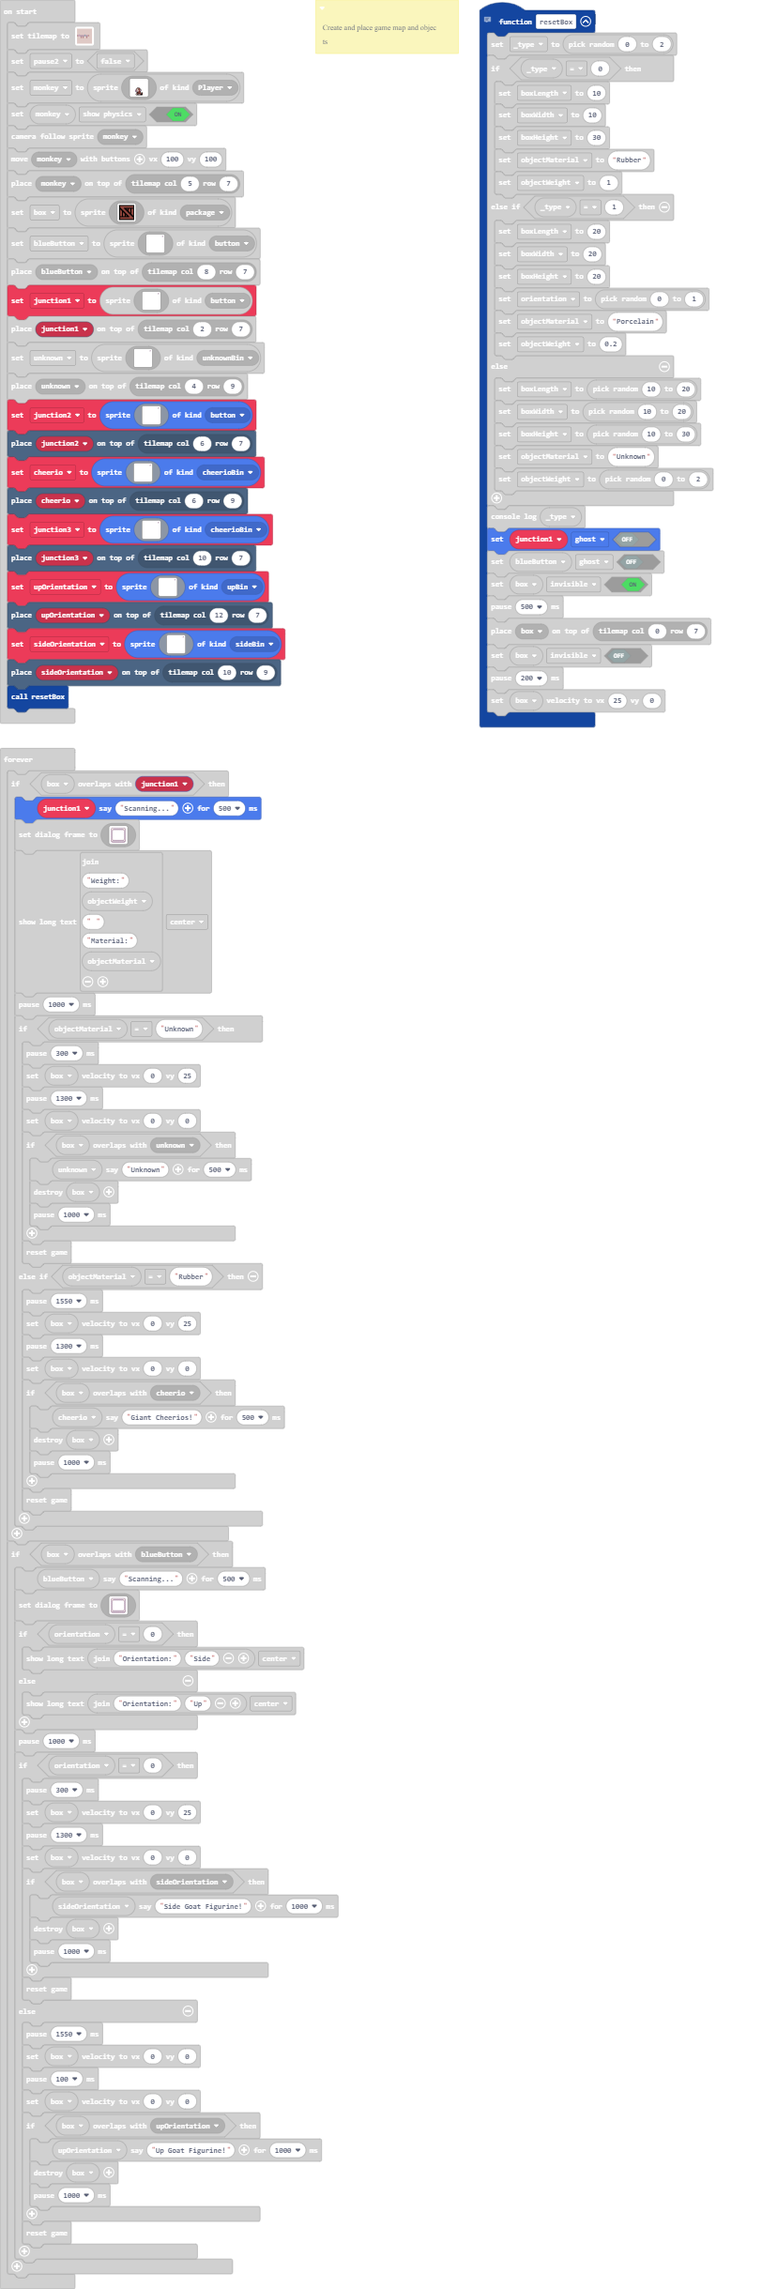
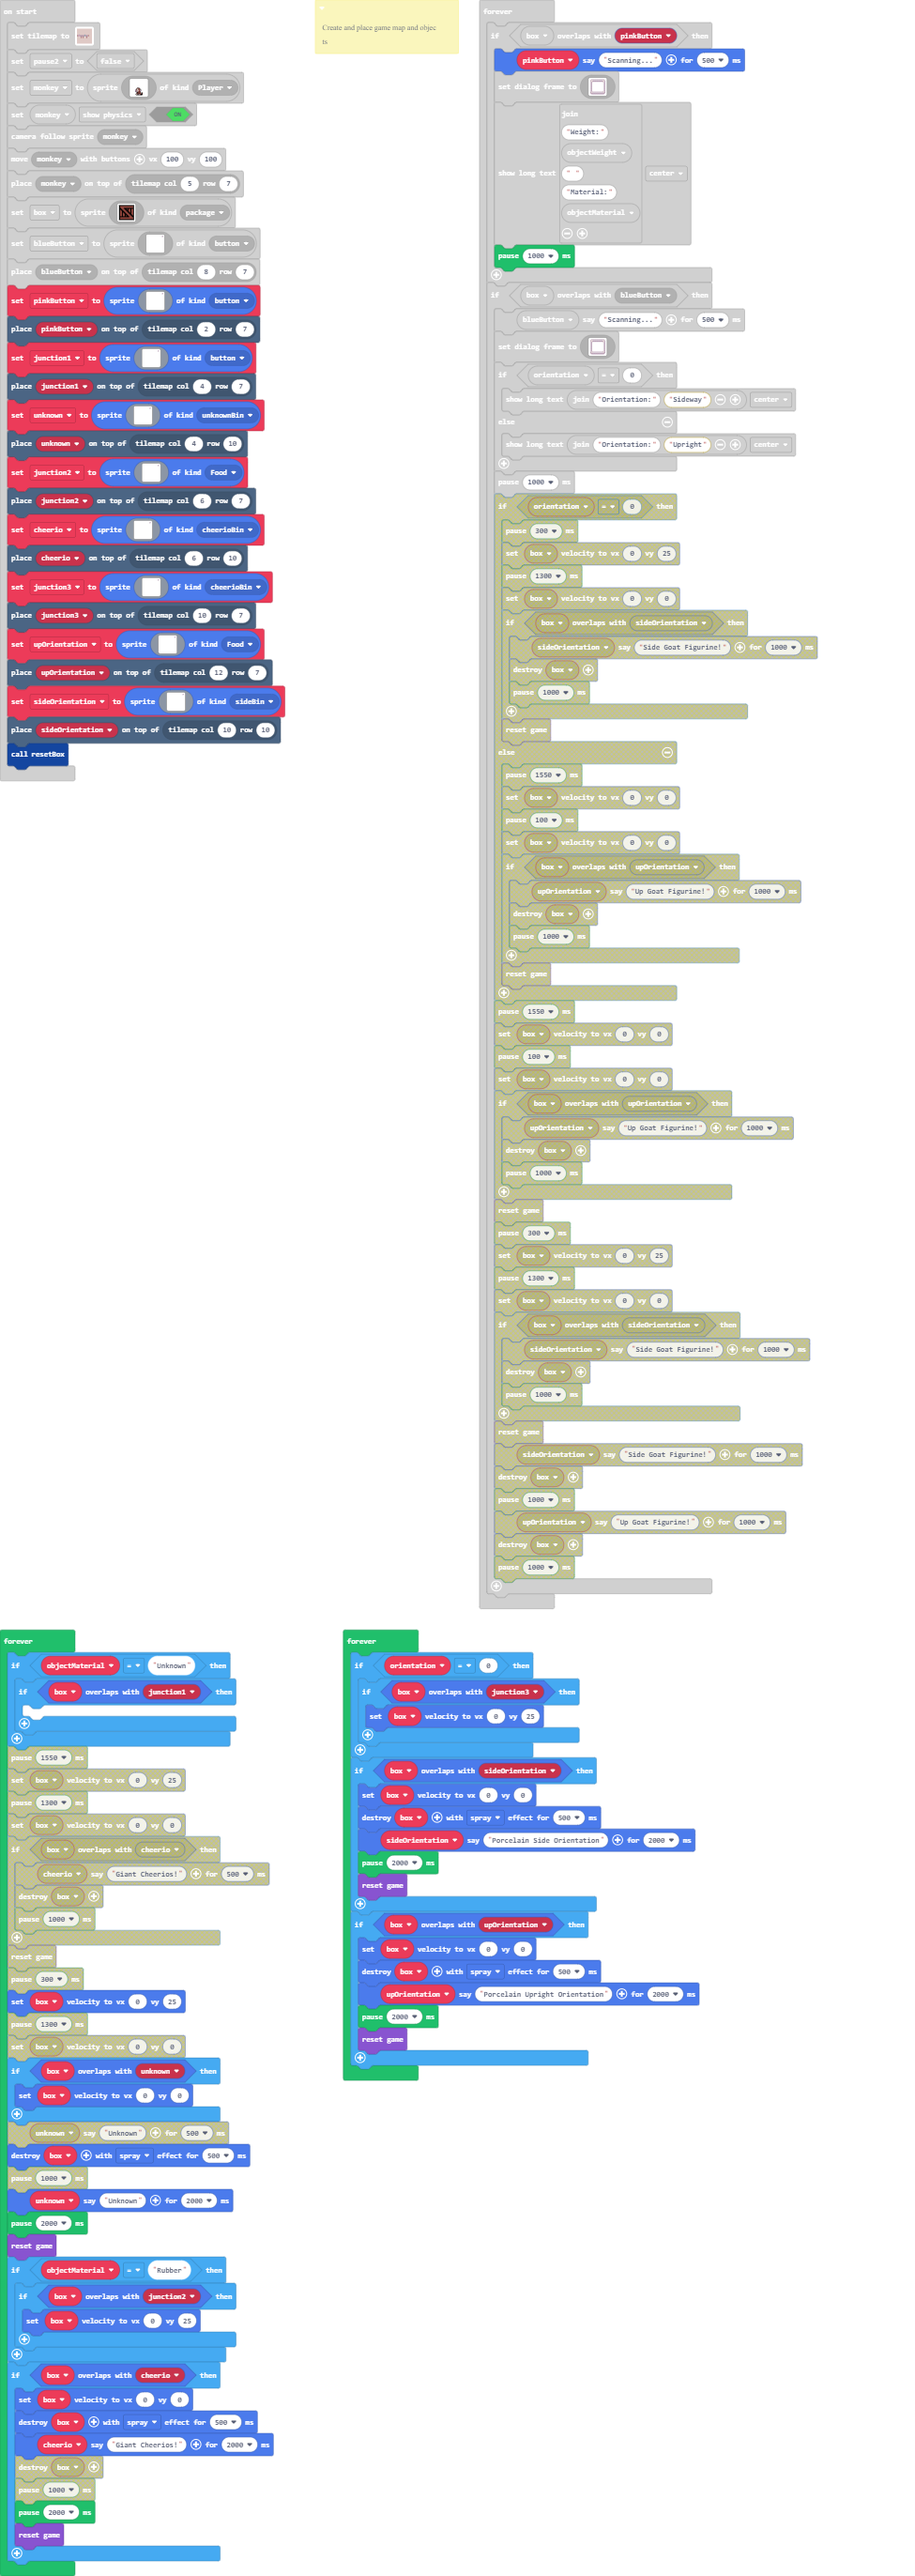
Update main.blocks, main.ts

diff --git a/main.ts b/main.ts
@@ -147,6 +147,25 @@ blueButton = sprites.create(img`
     . . . . . . . . . . . . . . . . 
     `, SpriteKind.button)
 tiles.placeOnTile(blueButton, tiles.getTileLocation(8, 7))
+let pinkButton = sprites.create(img`
+    . . . . . . . . . . . . . . . b 
+    . . . . . . . . . . . . . . . . 
+    . . . . . . . . . . . . . . . . 
+    . . . . . . . . . . . . . . . . 
+    . . . . . . . . . . . . . . . . 
+    . . . . . . . . . . . . . . . . 
+    . . . . . . . . . . . . . . . . 
+    . . . . . . . . . . . . . . . . 
+    . . . . . . . . . . . . . . . . 
+    . . . . . . . . . . . . . . . . 
+    . . . . . . . . . . . . . . . . 
+    . . . . . . . . . . . . . . . . 
+    . . . . . . . . . . . . . . . . 
+    . . . . . . . . . . . . . . . . 
+    . . . . . . . . . . . . . . . . 
+    . . . . . . . . . . . . . . . . 
+    `, SpriteKind.button)
+tiles.placeOnTile(pinkButton, tiles.getTileLocation(2, 7))
 junction1 = sprites.create(img`
     . . . . . . . . . . . . . . . b 
     . . . . . . . . . . . . . . . . 
@@ -165,7 +184,7 @@ junction1 = sprites.create(img`
     . . . . . . . . . . . . . . . . 
     . . . . . . . . . . . . . . . . 
     `, SpriteKind.button)
-tiles.placeOnTile(junction1, tiles.getTileLocation(2, 7))
+tiles.placeOnTile(junction1, tiles.getTileLocation(4, 7))
 let unknown = sprites.create(img`
     . . . . . . . . . . . . . . . b 
     . . . . . . . . . . . . . . . . 
@@ -184,7 +203,7 @@ let unknown = sprites.create(img`
     . . . . . . . . . . . . . . . . 
     . . . . . . . . . . . . . . . . 
     `, SpriteKind.unknownBin)
-tiles.placeOnTile(unknown, tiles.getTileLocation(4, 9))
+tiles.placeOnTile(unknown, tiles.getTileLocation(4, 10))
 let junction2 = sprites.create(img`
     . . . . . . . . . . . . . . . b 
     . . . . . . . . . . . . . . . . 
@@ -202,7 +221,7 @@ let junction2 = sprites.create(img`
     . . . . . . . . . . . . . . . . 
     . . . . . . . . . . . . . . . . 
     . . . . . . . . . . . . . . . . 
-    `, SpriteKind.button)
+    `, SpriteKind.Food)
 tiles.placeOnTile(junction2, tiles.getTileLocation(6, 7))
 let cheerio = sprites.create(img`
     . . . . . . . . . . . . . . . b 
@@ -222,7 +241,7 @@ let cheerio = sprites.create(img`
     . . . . . . . . . . . . . . . . 
     . . . . . . . . . . . . . . . . 
     `, SpriteKind.cheerioBin)
-tiles.placeOnTile(cheerio, tiles.getTileLocation(6, 9))
+tiles.placeOnTile(cheerio, tiles.getTileLocation(6, 10))
 let junction3 = sprites.create(img`
     . . . . . . . . . . . . . . . b 
     . . . . . . . . . . . . . . . . 
@@ -259,7 +278,7 @@ let upOrientation = sprites.create(img`
     . . . . . . . . . . . . . . . . 
     . . . . . . . . . . . . . . . . 
     . . . . . . . . . . . . . . . . 
-    `, SpriteKind.upBin)
+    `, SpriteKind.Food)
 tiles.placeOnTile(upOrientation, tiles.getTileLocation(12, 7))
 let sideOrientation = sprites.create(img`
     . . . . . . . . . . . . . . . b 
@@ -279,11 +298,11 @@ let sideOrientation = sprites.create(img`
     . . . . . . . . . . . . . . . . 
     . . . . . . . . . . . . . . . . 
     `, SpriteKind.sideBin)
-tiles.placeOnTile(sideOrientation, tiles.getTileLocation(10, 9))
+tiles.placeOnTile(sideOrientation, tiles.getTileLocation(10, 10))
 resetBox()
 forever(function () {
-    if (box.overlapsWith(junction1)) {
-        junction1.say("Scanning...", 500)
+    if (box.overlapsWith(pinkButton)) {
+        pinkButton.say("Scanning...", 500)
         game.setDialogFrame(img`
             ..bbbbbbbbbbbbbbbbbbbb..
             .bd111111111111111111db.
@@ -312,29 +331,6 @@ forever(function () {
             `)
         game.showLongText("Weight:" + objectWeight + " " + "Material:" + objectMaterial, DialogLayout.Center)
         pause(1000)
-        if (objectMaterial == "Unknown") {
-            pause(300)
-            box.setVelocity(0, 25)
-            pause(1300)
-            box.setVelocity(0, 0)
-            if (box.overlapsWith(unknown)) {
-                unknown.say("Unknown", 500)
-                box.destroy()
-                pause(1000)
-            }
-            game.reset()
-        } else if (objectMaterial == "Rubber") {
-            pause(1550)
-            box.setVelocity(0, 25)
-            pause(1300)
-            box.setVelocity(0, 0)
-            if (box.overlapsWith(cheerio)) {
-                cheerio.say("Giant Cheerios!", 500)
-                box.destroy()
-                pause(1000)
-            }
-            game.reset()
-        }
     }
     if (box.overlapsWith(blueButton)) {
         blueButton.say("Scanning...", 500)
@@ -365,33 +361,57 @@ forever(function () {
             ..bbbbbbbbbbbbbbbbbbbb..
             `)
         if (orientation == 0) {
-            game.showLongText("Orientation:" + "Side", DialogLayout.Center)
+            game.showLongText("Orientation:" + "Sideway", DialogLayout.Center)
         } else {
-            game.showLongText("Orientation:" + "Up", DialogLayout.Center)
+            game.showLongText("Orientation:" + "Upright", DialogLayout.Center)
         }
         pause(1000)
-        if (orientation == 0) {
-            pause(300)
+    }
+})
+forever(function () {
+    if (objectMaterial == "Unknown") {
+        if (box.overlapsWith(junction1)) {
             box.setVelocity(0, 25)
-            pause(1300)
-            box.setVelocity(0, 0)
-            if (box.overlapsWith(sideOrientation)) {
-                sideOrientation.say("Side Goat Figurine!", 1000)
-                box.destroy()
-                pause(1000)
-            }
-            game.reset()
-        } else {
-            pause(1550)
-            box.setVelocity(0, 0)
-            pause(100)
-            box.setVelocity(0, 0)
-            if (box.overlapsWith(upOrientation)) {
-                upOrientation.say("Up Goat Figurine!", 1000)
-                box.destroy()
-                pause(1000)
-            }
-            game.reset()
         }
+    }
+    if (box.overlapsWith(unknown)) {
+        box.setVelocity(0, 0)
+        box.destroy(effects.spray, 500)
+        unknown.say("Unknown", 2000)
+        pause(2000)
+        game.reset()
+    }
+    if (objectMaterial == "Rubber") {
+        if (box.overlapsWith(junction2)) {
+            box.setVelocity(0, 25)
+        }
+    }
+    if (box.overlapsWith(cheerio)) {
+        box.setVelocity(0, 0)
+        box.destroy(effects.spray, 500)
+        cheerio.say("Giant Cheerios!", 2000)
+        pause(2000)
+        game.reset()
+    }
+})
+forever(function () {
+    if (orientation == 0) {
+        if (box.overlapsWith(junction3)) {
+            box.setVelocity(0, 25)
+        }
+    }
+    if (box.overlapsWith(sideOrientation)) {
+        box.setVelocity(0, 0)
+        box.destroy(effects.spray, 500)
+        sideOrientation.say("Porcelain Side Orientation", 2000)
+        pause(2000)
+        game.reset()
+    }
+    if (box.overlapsWith(upOrientation)) {
+        box.setVelocity(0, 0)
+        box.destroy(effects.spray, 500)
+        upOrientation.say("Porcelain Upright Orientation", 2000)
+        pause(2000)
+        game.reset()
     }
 })
